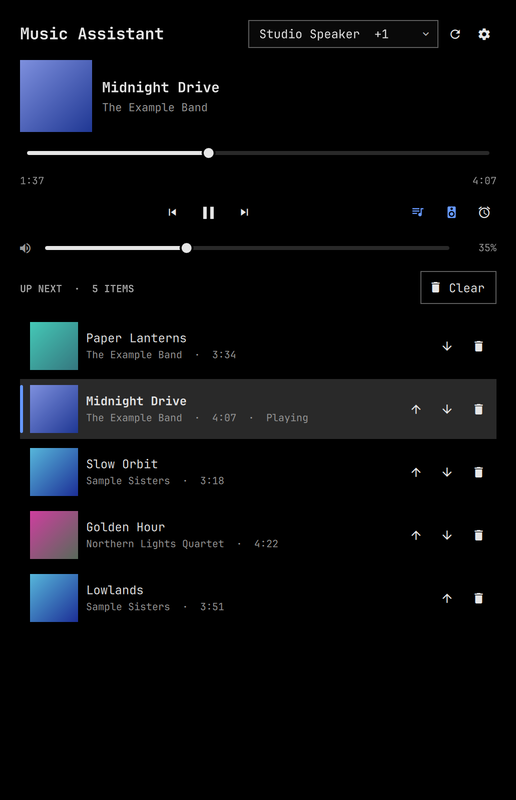
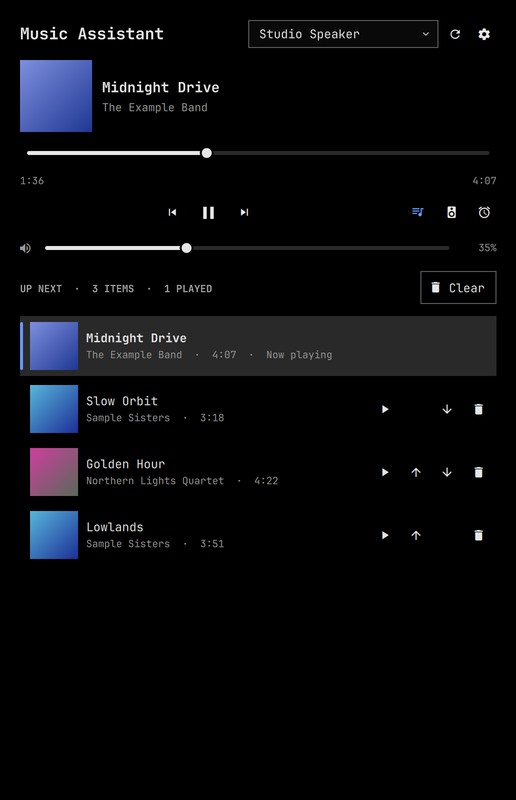
fix: pin the playing item in the queue, hide played items, add play-now per row

diff --git a/Panel.qml b/Panel.qml
@@ -63,7 +63,16 @@ Panel {
 
   // ---- queue + context menu -----------------------------------------------
   property bool queueView: false
-  property var queueRows: []
+  property var queueAll: []          // everything the server returned
+  // The playing item stays pinned at the top (it can't be moved); items that
+  // already played are left out, so every row below it is something up next.
+  readonly property int queueCurrentIndex: {
+    for (var i = 0; i < queueAll.length; i++) if (queueAll[i].current) return i
+    return -1
+  }
+  readonly property var queueRows: queueCurrentIndex < 0 ? queueAll : queueAll.slice(queueCurrentIndex)
+  readonly property int queuePlayedCount: Math.max(0, queueCurrentIndex)
+  readonly property int queueUpcoming: queueCurrentIndex < 0 ? queueAll.length : queueAll.length - queueCurrentIndex - 1
   property string notice: ""
   property var menuItem: null        // the row the context menu is open for
   property real menuX: 0
@@ -675,7 +684,7 @@ Panel {
       onStreamFinished: {
         try {
           var r = JSON.parse(text)
-          if (Array.isArray(r)) root.queueRows = r
+          if (Array.isArray(r)) root.queueAll = r
         } catch (e) {}
       }
     }
@@ -1399,7 +1408,8 @@ Panel {
         visible: root.configured && !root.settingsView && root.queueView
         Layout.fillWidth: true
         PanelSectionHeader {
-          text: "UP NEXT  ·  " + root.queueRows.length + (root.queueRows.length === 1 ? " ITEM" : " ITEMS")
+          text: "UP NEXT  ·  " + root.queueUpcoming + (root.queueUpcoming === 1 ? " ITEM" : " ITEMS")
+            + (root.queuePlayedCount > 0 ? "  ·  " + root.queuePlayedCount + " PLAYED" : "")
           foreground: root.fg
           fontFamily: root.fontFamily
         }
@@ -1417,10 +1427,11 @@ Panel {
 
       Text {
         textFormat: Text.PlainText
-        visible: root.configured && !root.settingsView && root.queueView && root.queueRows.length === 0
+        visible: root.configured && !root.settingsView && root.queueView && root.queueUpcoming === 0
         Layout.fillWidth: true
         wrapMode: Text.WordWrap
-        text: "The queue is empty. Right-click anything in the library to play it next or add it to the queue."
+        text: (root.queueRows.length === 0 ? "The queue is empty. " : "Nothing is queued after this. ")
+          + "Right-click anything in the library to play it next or add it to the queue."
         color: root.mutedFg
         font.family: root.fontFamily
         font.pixelSize: Style.font.bodySmall
@@ -1442,7 +1453,7 @@ Panel {
           width: queueList.width
           height: Style.space(60)
           radius: Style.cornerRadius
-          color: qMouse.containsMouse || qUp.hot || qDown.hot || qDel.hot
+          color: qMouse.containsMouse || qPlay.hot || qUp.hot || qDown.hot || qDel.hot
             ? Style.hoverFillFor(root.fg, Color.accent)
             : (modelData.current ? Style.selectedFillFor(root.fg, Color.accent) : "transparent")
 
@@ -1508,7 +1519,7 @@ Panel {
                   var parts = []
                   if (qd.modelData.subtitle !== "") parts.push(qd.modelData.subtitle)
                   if (qd.modelData.duration) parts.push(root.formatTime(qd.modelData.duration))
-                  if (qd.modelData.current) parts.push(root.playing ? "Playing" : "Current")
+                  if (qd.modelData.current) parts.push(root.playing ? "Now playing" : "Paused")
                   return parts.join("  ·  ")
                 }
                 color: root.mutedFg
@@ -1519,8 +1530,20 @@ Panel {
             }
 
             PanelActionButton {
+              id: qPlay
+              visible: !qd.modelData.current
+              iconText: ""
+              tooltipText: "Play this now"
+              foreground: root.fg
+              onClicked: root.queueAction(["queue-jump", qd.modelData.id])
+            }
+            PanelActionButton {
               id: qUp
-              visible: qd.index > 0
+              // The first item up next can't move above the one playing; "Play this now" covers that.
+              // (kept in the layout, just invisible, so the buttons stay in columns)
+              readonly property bool allowed: !qd.modelData.current && qd.index > (root.queueCurrentIndex >= 0 ? 1 : 0)
+              opacity: allowed ? 1 : 0
+              enabled: allowed
               iconText: ""
               tooltipText: "Move up"
               foreground: root.fg
@@ -1528,7 +1551,9 @@ Panel {
             }
             PanelActionButton {
               id: qDown
-              visible: qd.index < root.queueRows.length - 1
+              readonly property bool allowed: !qd.modelData.current && qd.index < root.queueRows.length - 1
+              opacity: allowed ? 1 : 0
+              enabled: allowed
               iconText: ""
               tooltipText: "Move down"
               foreground: root.fg
@@ -1536,6 +1561,7 @@ Panel {
             }
             PanelActionButton {
               id: qDel
+              visible: !qd.modelData.current
               iconText: ""
               tooltipText: "Remove from the queue"
               foreground: root.fg

diff --git a/README.md b/README.md
@@ -187,8 +187,10 @@ Notes and known problems:
 
 **Queue**
 
-- The queue button shows what's up next. Click an item to jump to it, move it up or
-  down, remove it, or clear the queue.
+- The queue button shows what's up next. The item that's playing is pinned at the top
+  (it can't be moved), and items that already played are hidden. For everything below it,
+  use **play now** to jump straight to it, move it up or down, or remove it. You can also
+  clear the queue.
 - **Right-click** any album, playlist, track, audiobook or episode for **Play now**,
   **Play next** and **Add to queue**.
 

diff --git a/CHANGELOG.md b/CHANGELOG.md
@@ -1,5 +1,12 @@
 # Changelog
 
+## 0.9.1
+
+- Queue: the playing item is pinned at the top and no longer shows move/remove buttons;
+  already-played items are hidden; each upcoming item gets a "play this now" button.
+- Automatically finds a hostname-named "universal player" (used by the optional lightweight
+  local player), and documents that setup as experimental.
+
 ## 0.9.0 (first public beta)
 
 - Bar icon and dropdown for Music Assistant: now playing, transport, volume, speed,
